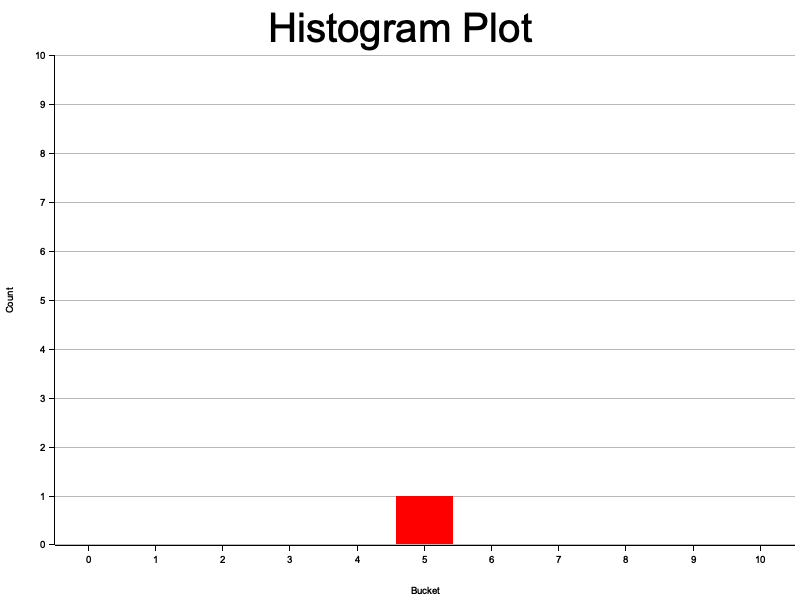
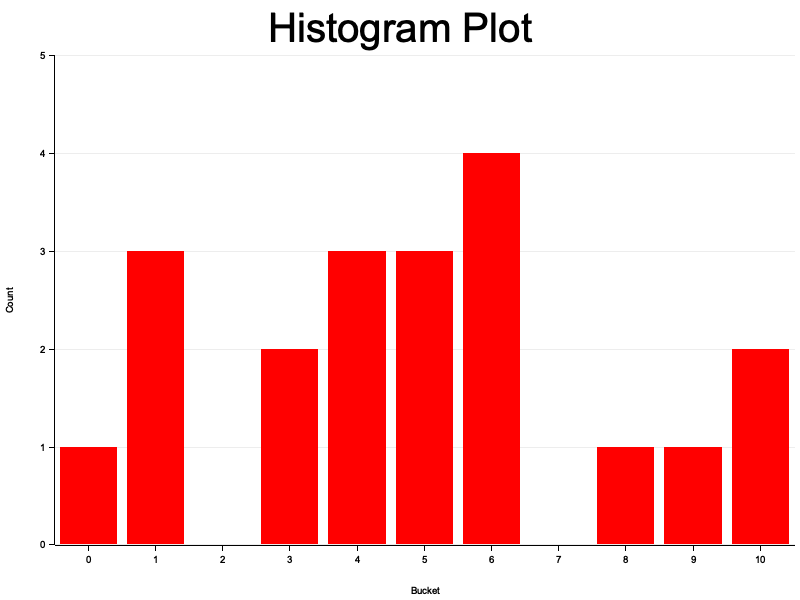
Added Histogram

Changed region(s): [[0.3125, 0.24, 0.6562, 0.93], [0.7188, 0.57, 1.0, 0.93], [0.0625, 0.42, 0.25, 0.93]]

diff --git a/Data_visualization/histogram/src/main.rs b/Data_visualization/histogram/src/main.rs
@@ -10,11 +10,12 @@ fn main() -> Result<(), Box<dyn std::error::Error>> {
         .margin(5)
         .x_label_area_size(50)
         .y_label_area_size(50)
-        .build_cartesian_2d((0u32..10u32).into_segmented(), 0u32..10u32)?;
+        .build_cartesian_2d((0u32..10u32).into_segmented(), 0u32..5u32)?;
 
     chart
         .configure_mesh()
         .disable_x_mesh()
+        .bold_line_style(WHITE.mix(0.3))
         .y_desc("Count")
         .x_desc("Bucket")
         .draw()?;
@@ -33,7 +34,7 @@ fn make_data(elems: u32) -> Vec<u32> {
     let mut data = vec![];
     let mut rng = rand::thread_rng();
     for _i in 0..elems {
-        data.push(rng.gen_range(0..50));
+        data.push(rng.gen_range(0..11));
     }
-    return data;
+    data
 }
